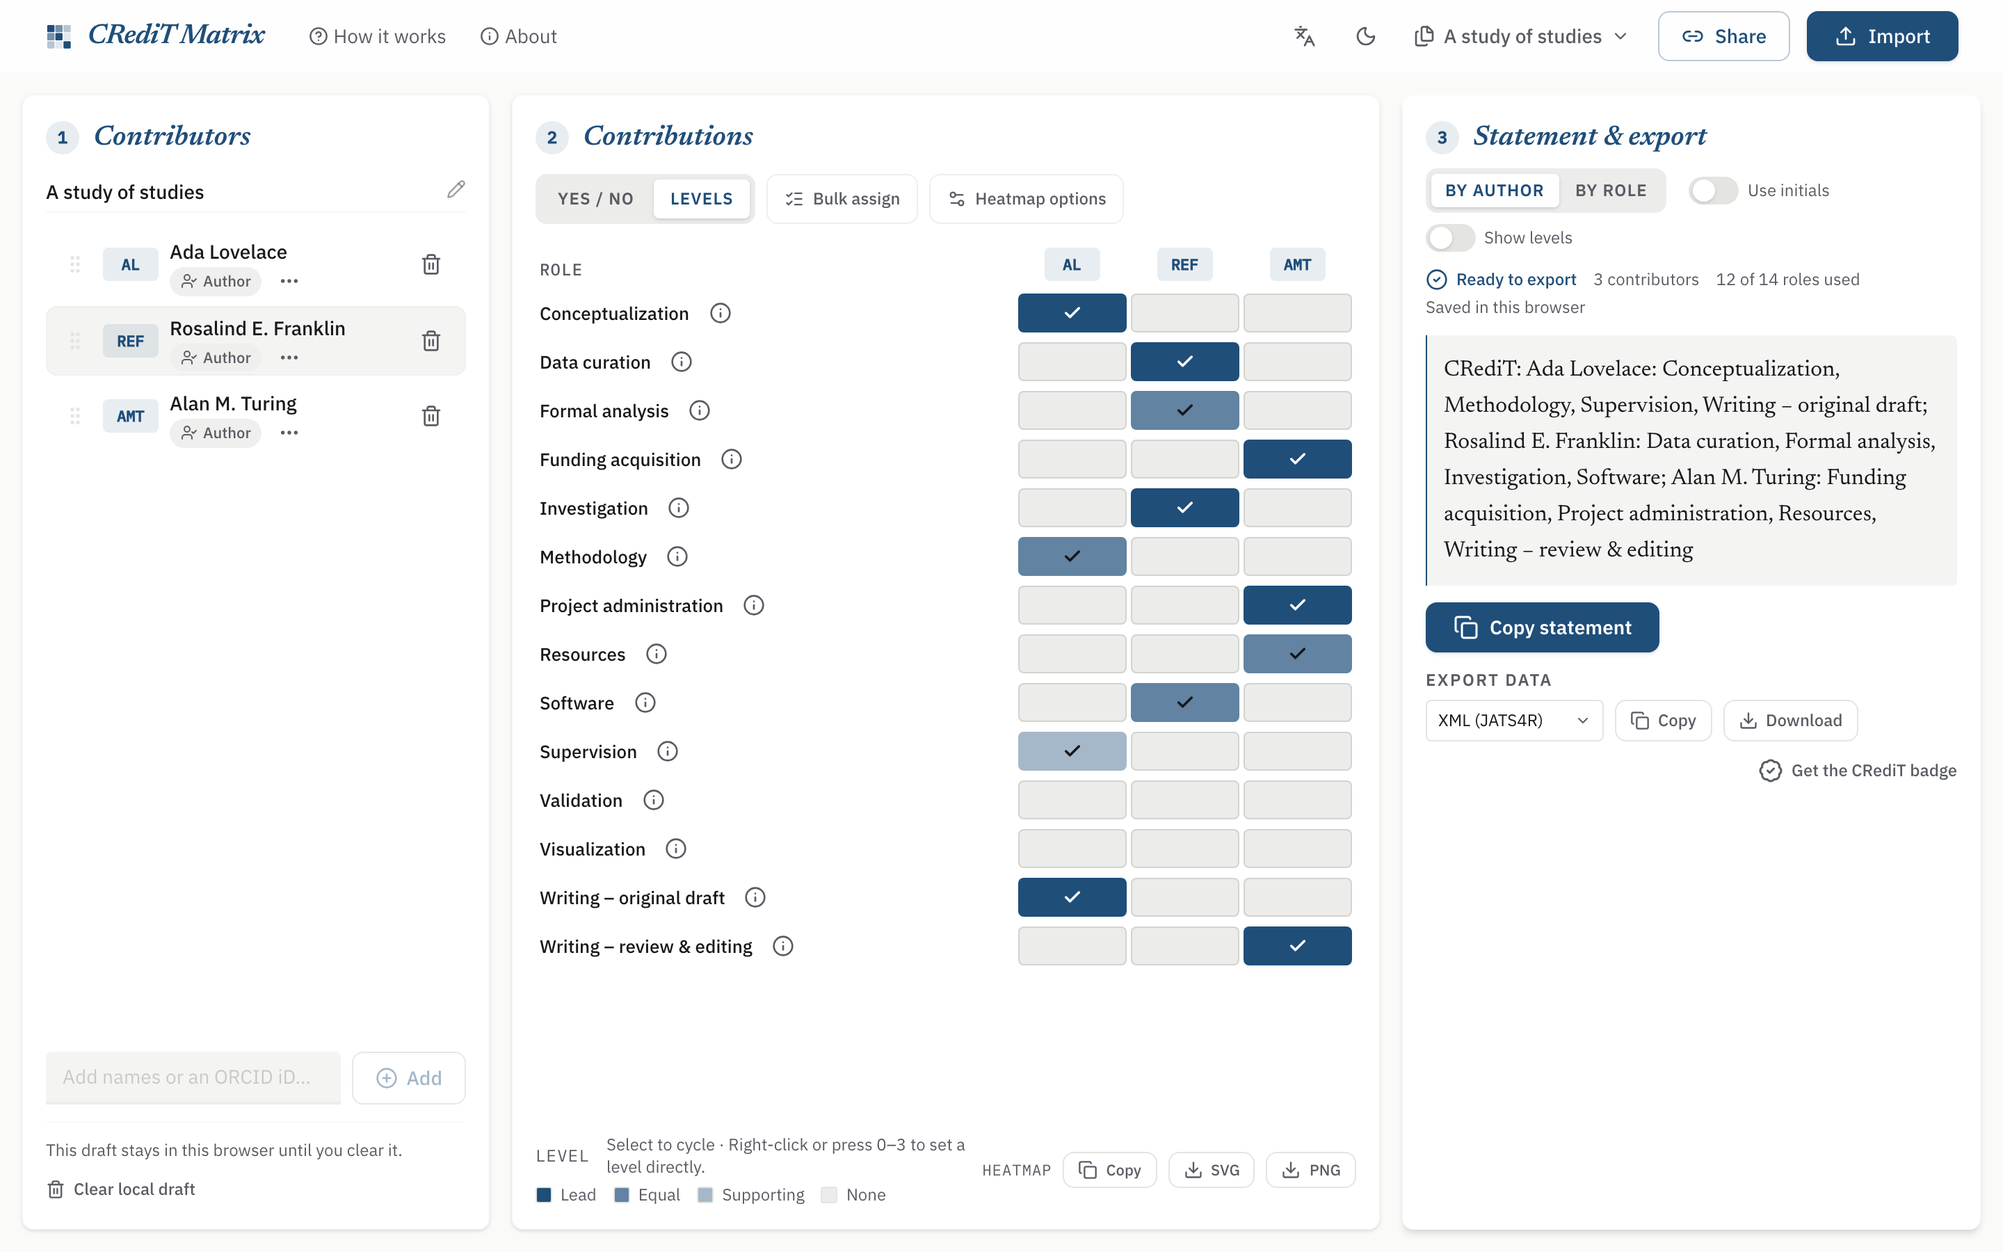
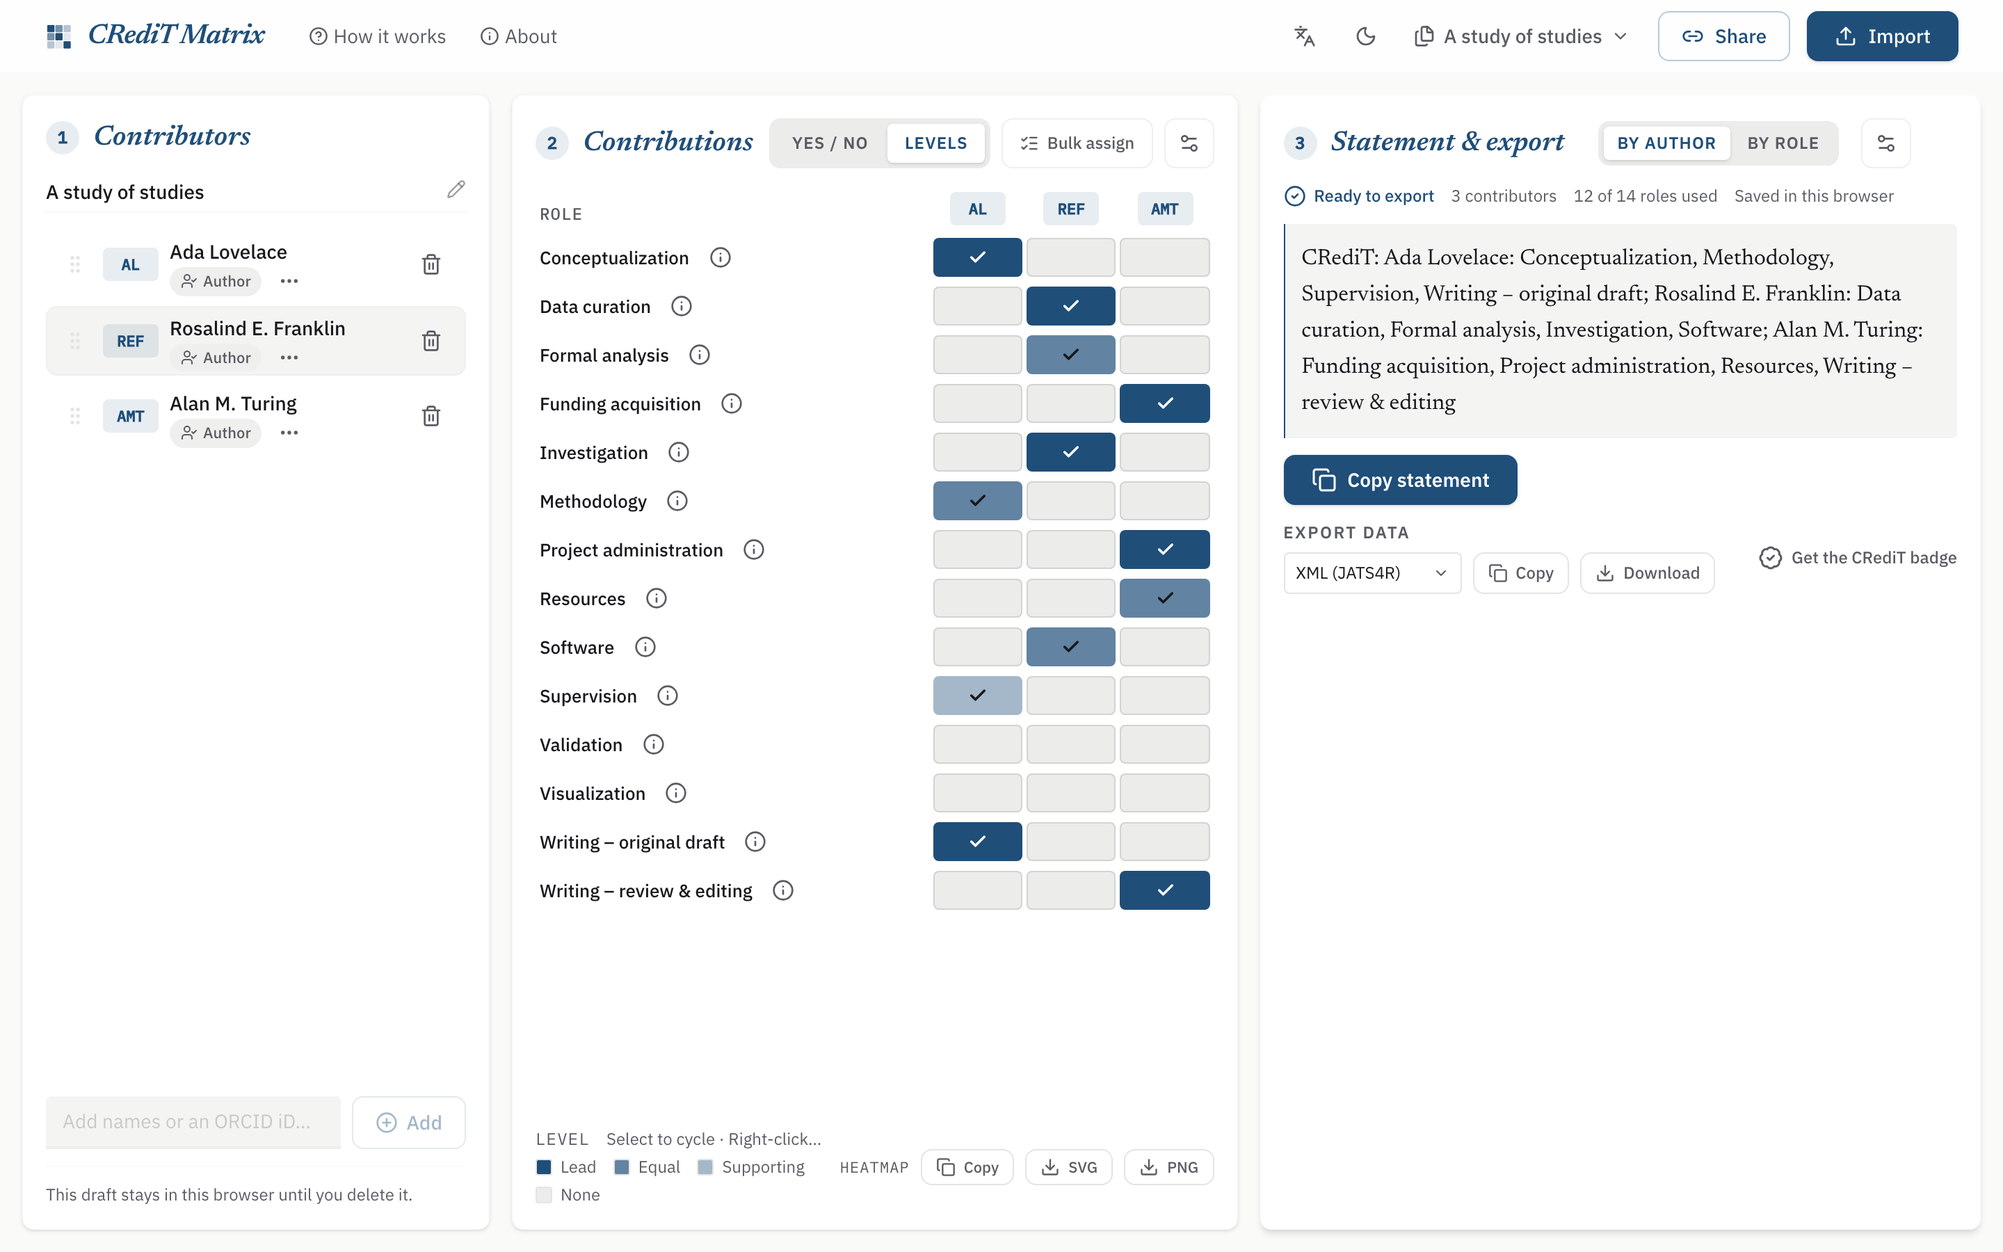
feat(ui): one options pattern per pane, and a footer that holds still
- the statement's wording toggles move behind an icon-only gear, the
  same pattern the heatmap options use (closes the roadmap item)
- the in-pane clear-draft flow goes; the Drafts menu owns deletion, and
  the stays-in-this-browser note remains
- the Levels legend hint is shorter, capped to one line (full text in
  the tooltip), and the export cluster anchors to the row top, so
  toggling modes no longer bounces it
- hero and statement screenshots refreshed

diff --git a/src/components/steps/AuthorInput.tsx b/src/components/steps/AuthorInput.tsx
@@ -138,7 +138,6 @@ export function AuthorList() {
     loadSample,
     moveAuthor,
     removeAuthor,
-    reset,
     restoreAuthor,
     setTitle,
     title,
@@ -159,12 +158,9 @@ export function AuthorList() {
   const [newName, setNewName] = useState("");
   const [addError, setAddError] = useState<string | null>(null);
   const [removed, setRemoved] = useState<{ author: Author; index: number } | null>(null);
-  const [clearPending, setClearPending] = useState(false);
   const [focusAfterRemove, setFocusAfterRemove] = useState<number | null>(null);
   const listRef = useRef<HTMLUListElement>(null);
   const addInputRef = useRef<HTMLInputElement>(null);
-  const clearDraftRef = useRef<HTMLButtonElement>(null);
-  const cancelClearRef = useRef<HTMLButtonElement>(null);
   // Rows that arrive after the app has settled animate in; a restored draft does not.
   const settled = useSettled();
 
@@ -181,24 +177,6 @@ export function AuthorList() {
   // it after a switch would insert one paper's contributor into another.
   // biome-ignore lint/correctness/useExhaustiveDependencies: re-runs on draft switch by design
   useEffect(() => setRemoved(null), [activeDraftId]);
-
-  // The t("clearDraft") button is replaced by the Cancel/Clear draft pair,
-  // so activating it unmounts the focused element. Carry focus across the swap
-  // in both directions instead of letting it fall back to <body>.
-  const clearWasPending = useRef(false);
-  useEffect(() => {
-    if (clearPending === clearWasPending.current) return;
-    clearWasPending.current = clearPending;
-    if (clearPending) {
-      cancelClearRef.current?.focus();
-      return;
-    }
-    // After an actual clear the list is empty, which disables the trigger;
-    // focusing it would silently do nothing, so fall through to the add field.
-    const trigger = clearDraftRef.current;
-    if (trigger && !trigger.disabled) trigger.focus();
-    else addInputRef.current?.focus();
-  }, [clearPending]);
 
   // Runs after the removed row has left the DOM, so the buttons queried here
   // are the surviving ones. Falls back to the add field when the list empties.
@@ -374,16 +352,6 @@ export function AuthorList() {
     if (event.key === "Enter") void handleAdd();
   }
 
-  function handleClearDraft() {
-    reset();
-    useContributionStore.persist.clearStorage();
-    setClearPending(false);
-    // The cleared roster no longer holds the removed row's neighbours; an
-    // undo would resurrect a contributor into an emptied draft.
-    setRemoved(null);
-    announce(t("annDraftCleared"));
-  }
-
   /** Pasting a whole author list adds every name; single names paste normally. */
   function handleAddPaste(event: React.ClipboardEvent<HTMLInputElement>) {
     const tokens = splitNameList(event.clipboardData.getData("text"));
@@ -527,39 +495,10 @@ export function AuthorList() {
         </div>
       )}
 
-      <div className="mt-3 flex flex-wrap items-center justify-between gap-2 border-t border-outline-variant/20 pt-3">
+      {/* Deleting a paper is the Drafts menu's job; a second, in-pane clear
+          flow duplicated it with worse affordances. The privacy fact stays. */}
+      <div className="mt-3 border-t border-outline-variant/20 pt-3">
         <p className="text-xs text-on-surface-variant">{t("draftStaysLocal")}</p>
-        {locked ? null : clearPending ? (
-          <div className="flex flex-wrap items-center justify-end gap-2 text-xs">
-            <span className="text-on-surface">{t("clearDraftQuestion")}</span>
-            <button
-              ref={cancelClearRef}
-              type="button"
-              onClick={() => setClearPending(false)}
-              className="min-h-6 rounded px-2 font-medium text-on-surface-variant hover:text-on-surface"
-            >
-              {t("cancel")}
-            </button>
-            <button
-              type="button"
-              onClick={handleClearDraft}
-              className="min-h-6 rounded bg-error-container px-2 font-semibold text-on-error-container"
-            >
-              {t("clearDraftConfirm")}
-            </button>
-          </div>
-        ) : (
-          <button
-            ref={clearDraftRef}
-            type="button"
-            onClick={() => setClearPending(true)}
-            disabled={authors.length === 0}
-            className="inline-flex min-h-6 items-center gap-1.5 rounded text-xs font-medium text-on-surface-variant transition-colors hover:text-error disabled:cursor-not-allowed disabled:opacity-40"
-          >
-            <Trash2 className="size-3.5" aria-hidden="true" />
-            {t("clearDraft")}
-          </button>
-        )}
       </div>
     </div>
   );

diff --git a/src/components/steps/ContributionGrid.tsx b/src/components/steps/ContributionGrid.tsx
@@ -438,10 +438,15 @@ export function ContributionGrid() {
               </PopoverContent>
             </Popover>
           )}
+          {/* Icon-only: display settings, not a workflow action, so it earns
+              the quietest slot at the cluster's far end. */}
           <Popover>
-            <PopoverTrigger className="flex min-h-9 items-center gap-1.5 rounded-lg border border-outline-variant/60 px-3 text-xs font-medium text-on-surface-variant transition-colors hover:border-primary hover:text-primary focus-visible:outline-none focus-visible:ring-2 focus-visible:ring-primary data-[state=open]:border-primary data-[state=open]:bg-primary/10 data-[state=open]:text-primary">
-              <Settings2 className="size-3.5" aria-hidden="true" />
-              {t("heatmapOptions")}
+            <PopoverTrigger
+              aria-label={t("heatmapOptions")}
+              title={t("heatmapOptions")}
+              className="flex size-9 items-center justify-center rounded-lg border border-outline-variant/60 text-on-surface-variant transition-colors hover:border-primary hover:text-primary focus-visible:outline-none focus-visible:ring-2 focus-visible:ring-primary data-[state=open]:border-primary data-[state=open]:bg-primary/10 data-[state=open]:text-primary"
+            >
+              <Settings2 className="size-4" aria-hidden="true" />
             </PopoverTrigger>
             <PopoverContent align="end" className="flex w-64 flex-wrap items-center gap-3">
               <ColorPopover
@@ -753,7 +758,10 @@ export function ContributionGrid() {
           of the row instead of displacing them.
           `w-0 min-w-full` keeps this row out of the card's max-content width, so
           switching modes cannot resize the whole column to fit a longer legend. */}
-      <div className="mt-2 flex w-0 min-w-full items-center justify-between gap-3">
+      {/* items-start: the legend may wrap taller in Levels, and a centered
+          export cluster would ride the height change. Anchored to the row's
+          top, it holds still whatever the legend does below. */}
+      <div className="mt-2 flex w-0 min-w-full items-start justify-between gap-3">
         <GridLegend monoColor={heatmapMonoColor} graded={graded} translateUi={translateUi} />
         <HeatmapExports
           authors={authors}
@@ -870,13 +878,14 @@ function GridLegend({
     // get the full width and no longer dangle onto a second row in Levels. Both
     // modes are two lines, so switching them cannot change the row's height.
     <div className="flex min-w-0 flex-col gap-1 text-xs text-on-surface-variant">
-      <span className="flex items-center gap-3">
+      <span className="flex min-w-0 items-center gap-3">
         <span className="font-mono text-xs uppercase tracking-wider">{graded ? t("legendLevel") : t("legendKey")}</span>
         {/* Yes/no needs no hint: the grid says it. Levels does, because the click
-            cycle isn't visible. It sits here rather than beside the mode control,
-            where switching modes reflowed the whole header and shifted the matrix. */}
+            cycle isn't visible. Capped to one line (full text in the tooltip):
+            a wrapped hint made this row taller in Levels, so toggling modes
+            bounced the export cluster below. */}
         {graded && (
-          <span>
+          <span className="min-w-0 truncate" title={`${t("clickToCycle")} · ${t("levelKeysHint")}`}>
             {/* A language-neutral separator: the two hints are separate
                 sentences, and jamming them read as one run-on label. */}
             {t("clickToCycle")} <span className="hidden md:inline">· {t("levelKeysHint")}</span>
@@ -906,9 +915,14 @@ type ExportFormat = "svg" | "png";
 
 /**
  * Rasterise an SVG string to a PNG Blob entirely in the browser, with no
- * server round-trip. Renders at 2× for crisp output suitable for slides/docs.
+ * server round-trip.
+ *
+ * 3×, not 2×: at the default 22px cell a single-column journal figure comes
+ * out around 500 CSS px wide, which 2× rasterises to ~3.4in at 300 dpi — under
+ * the 85mm single-column width most publishers ask for. 3× clears it, and
+ * still lands well inside the clipboard's practical size.
  */
-function svgToPngBlob(svg: string, scale = 2): Promise<Blob> {
+function svgToPngBlob(svg: string, scale = 3): Promise<Blob> {
   return new Promise((resolve, reject) => {
     const svgBlob = new Blob([svg], { type: "image/svg+xml;charset=utf-8" });
     const url = URL.createObjectURL(svgBlob);

diff --git a/src/components/steps/StatementOutput.tsx b/src/components/steps/StatementOutput.tsx
@@ -12,10 +12,11 @@ import {
   toMarkdown,
   validateContributions,
 } from "@credit-generator/core";
-import { CheckCircle2, Copy, Download, Info, TriangleAlert } from "lucide-react";
+import { CheckCircle2, Copy, Download, Info, Settings2, TriangleAlert } from "lucide-react";
 import { useState } from "react";
 import { useTranslations } from "use-intl";
 import { CreditBadge } from "@/components/ui/credit-badge";
+import { Popover, PopoverContent, PopoverTrigger } from "@/components/ui/popover";
 import { SegmentedControl } from "@/components/ui/segmented";
 import { Select, SelectContent, SelectItem, SelectTrigger, SelectValue } from "@/components/ui/select";
 import { StepHeader } from "@/components/ui/step-header";
@@ -116,22 +117,37 @@ export function StatementOutput() {
             { value: "by-role", label: t("groupByRole") },
           ]}
         />
-        <span className="flex items-center gap-1.5 text-xs text-on-surface-variant">
-          <Switch checked={acronyms} onCheckedChange={setAcronyms} aria-label={t("a11yUseInitials")} />
-          {t("useInitials")}
-        </span>
-        {canShowLevels && (
-          <span className="flex items-center gap-1.5 text-xs text-on-surface-variant">
-            <Switch checked={showLevels} onCheckedChange={setShowLevels} aria-label={t("a11yShowLevels")} />
-            {t("showLevels")}
-          </span>
-        )}
-        {hasNonAuthors && (
-          <span className="flex items-center gap-1.5 text-xs text-on-surface-variant">
-            <Switch checked={separateAck} onCheckedChange={setSeparateAck} aria-label={t("a11ySeparateAcks")} />
-            {t("separateAcknowledgements")}
-          </span>
-        )}
+        {/* The grouping is the statement's mode and stays visible; the wording
+            toggles are display options and live behind the same icon-only gear
+            the heatmap's options use. Conditional toggles appearing inside the
+            popover can no longer reflow this row. */}
+        <Popover>
+          <PopoverTrigger
+            aria-label={t("statementOptions")}
+            title={t("statementOptions")}
+            className="flex size-9 items-center justify-center rounded-lg border border-outline-variant/60 text-on-surface-variant transition-colors hover:border-primary hover:text-primary focus-visible:outline-none focus-visible:ring-2 focus-visible:ring-primary data-[state=open]:border-primary data-[state=open]:bg-primary/10 data-[state=open]:text-primary"
+          >
+            <Settings2 className="size-4" aria-hidden="true" />
+          </PopoverTrigger>
+          <PopoverContent align="end" className="grid w-60 gap-3">
+            <span className="flex items-center gap-1.5 text-xs text-on-surface-variant">
+              <Switch checked={acronyms} onCheckedChange={setAcronyms} aria-label={t("a11yUseInitials")} />
+              {t("useInitials")}
+            </span>
+            {canShowLevels && (
+              <span className="flex items-center gap-1.5 text-xs text-on-surface-variant">
+                <Switch checked={showLevels} onCheckedChange={setShowLevels} aria-label={t("a11yShowLevels")} />
+                {t("showLevels")}
+              </span>
+            )}
+            {hasNonAuthors && (
+              <span className="flex items-center gap-1.5 text-xs text-on-surface-variant">
+                <Switch checked={separateAck} onCheckedChange={setSeparateAck} aria-label={t("a11ySeparateAcks")} />
+                {t("separateAcknowledgements")}
+              </span>
+            )}
+          </PopoverContent>
+        </Popover>
       </div>
 
       {hasAuthors && (

diff --git a/e2e/happy-path.spec.ts b/e2e/happy-path.spec.ts
@@ -424,15 +424,19 @@ test.describe("Happy path UI flows", () => {
     await expect(page.getByRole("button", { name: "Validation for Rosalind E. Franklin: None" })).toBeVisible();
   });
 
-  test("persists and clears the local draft", async ({ page }) => {
+  test("persists the draft, and deleting it from the picker empties the workspace", async ({ page }) => {
     await page.goto("/");
     await page.getByRole("button", { name: "Load sample data" }).click();
     await expect(page.getByRole("button", { name: /^Remove / })).toHaveCount(3);
     await page.reload();
     await expect(page.getByRole("button", { name: /^Remove / })).toHaveCount(3);
 
-    await page.getByRole("button", { name: "Clear local draft" }).click();
-    await page.getByRole("button", { name: "Clear draft" }).click();
+    // The Drafts menu owns deletion; deleting the only draft lands on a
+    // fresh, empty one, and the emptiness survives a reload.
+    await page.getByRole("button", { name: /^Drafts:/ }).click();
+    await page.getByRole("button", { name: "Delete", exact: true }).click();
+    await page.getByRole("button", { name: "Delete", exact: true }).click();
+    await page.keyboard.press("Escape");
     await expect(page.getByRole("button", { name: /^Remove / })).toHaveCount(0);
     await page.reload();
     await expect(page.getByRole("button", { name: /^Remove / })).toHaveCount(0);
@@ -594,7 +598,10 @@ test.describe("Happy path UI flows", () => {
     await page.getByRole("button", { name: "Author" }).first().click();
     const statement = page.getByLabel("Statement and export").locator("p").filter({ hasText: "CRediT:" });
     await expect(statement).toContainText("Acknowledgements: Ada Lovelace");
+    // The wording toggles live behind the statement's options gear now.
+    await page.getByRole("button", { name: "Statement options" }).click();
     await page.getByRole("switch", { name: /Separate acknowledgements/ }).click();
+    await page.keyboard.press("Escape");
     await expect(statement).not.toContainText("Acknowledgements:");
   });
 
@@ -736,7 +743,7 @@ test.describe("Happy path UI flows", () => {
     await adder.press("Enter");
     await expect(page.getByRole("button", { name: /^Remove / })).toHaveCount(8);
 
-    await page.getByText("Heatmap options", { exact: true }).click();
+    await page.getByRole("button", { name: "Heatmap options" }).click();
     await page.getByRole("button", { name: "Transpose" }).click();
     await page.keyboard.press("Escape");
 

diff --git a/e2e/a11y.spec.ts b/e2e/a11y.spec.ts
@@ -220,7 +220,7 @@ test.describe("Accessibility (axe-core)", () => {
   test("the assigned-cell checkmark stays legible on every grid color", async ({ page }) => {
     await page.goto("/");
     await page.getByRole("button", { name: "Load sample data" }).click();
-    await page.getByText("Heatmap options", { exact: true }).click();
+    await page.getByRole("button", { name: "Heatmap options" }).click();
     await page.getByRole("button", { name: "Heatmap color" }).click();
     // The Okabe-Ito yellow is the worst case: a white glyph vanishes on it.
     await page.getByRole("button", { name: "Set color Yellow" }).click();
@@ -245,7 +245,7 @@ test.describe("Accessibility (axe-core)", () => {
 
     const reorder = await settled(page.getByRole("button", { name: /Reorder Ada/ }));
     const roleInfo = await settled(page.getByRole("button", { name: "About Conceptualization" }));
-    await page.getByText("Heatmap options", { exact: true }).click();
+    await page.getByRole("button", { name: "Heatmap options" }).click();
     await page.getByRole("button", { name: "Heatmap color" }).click();
     const swatch = await settled(page.getByRole("button", { name: /Set color/ }).first());
 

diff --git a/CHANGELOG.md b/CHANGELOG.md
@@ -4,6 +4,27 @@ All notable changes to this project are documented here. The format is based on
 [Keep a Changelog](https://keepachangelog.com/en/1.1.0/), and this project
 adheres to [Semantic Versioning](https://semver.org/spec/v2.0.0.html).
 
+## [Unreleased]
+
+### Changed
+
+- The sample opens in Levels: its graded scores are the point, and yes/no hid them.
+- Both output panes organize the same way: the mode control stays visible, and the display options
+  (the statement's wording toggles, the heatmap's color, transpose, and initials) live behind an
+  icon-only gear at the cluster's end.
+- The Levels legend hint is shorter and capped to one line, so toggling modes no longer bounces the
+  heatmap export buttons.
+
+### Removed
+
+- The in-pane "Clear local draft" flow. Deleting a paper is the Drafts menu's job; the second path
+  duplicated it with worse affordances. The stays-in-this-browser note remains.
+
+### Fixed
+
+- On narrow screens in Levels, a role button's label no longer sits on the dynamic fill, where a
+  mid-tone preset had no readable text color at all; a small swatch carries the color instead.
+
 ## [0.3.0] - 2026-08-27
 
 ### Added

diff --git a/README.md b/README.md
@@ -144,8 +144,6 @@ invocation log. After changing the binding, check the first deploy's logs for
   systems ask for next.
 - **Make sharing discoverable.** The onboarding barely hints at sharing a draft or asking a
   co-author to fill in their own row. Both are easy to miss entirely.
-- **Move the statement options into a popover.** The statement's toggles sit inline; the heatmap's
-  live in an options popover.
 
 ## Contributing
 
